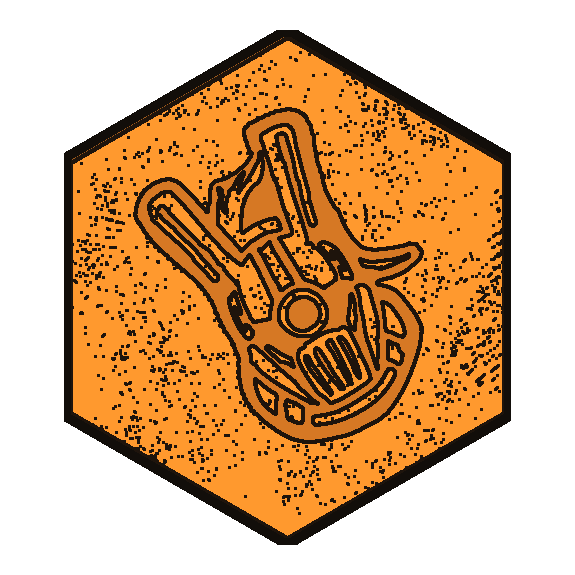
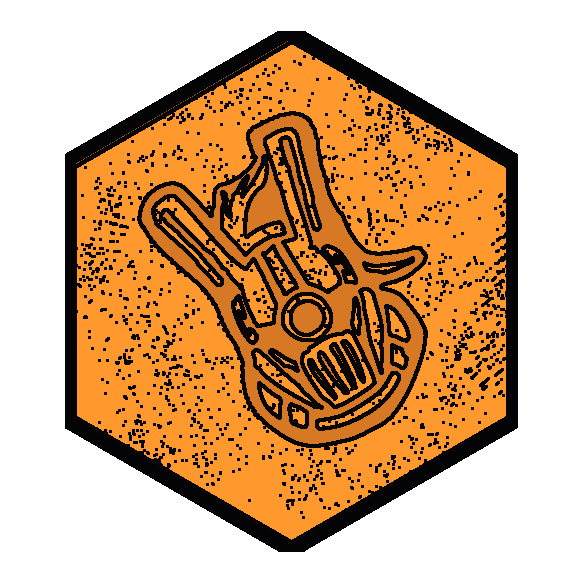
Apply zone-tint + badge treatment to thrones; darken emblem outlines
- Throne hexes (baseOrangeSpawn/baseBlueSpawn) now render as the base-coloured
  tile with the gear/star STL emblem as a centered badge, matching the minion
  spawns instead of a solid emblem tile.
- Re-rendered all emblems (minions + gear/star) from the STLs as transparent
  autocropped badges with a darker, thicker outline for stronger separation.
- Board and Map Editor both composite base tile + throne badge.

Claude-Session: https://claude.ai/code/session_01FGCwfszE2bRB1cHZJJWfUt

Changed region(s): [[0.1183, 0.0591, 0.887, 0.9461], [0.7687, 0.3843, 0.7983, 0.4139], [0.5617, 0.1774, 0.5913, 0.207]]

diff --git a/src/routes/play/+page.svelte b/src/routes/play/+page.svelte
@@ -32,6 +32,8 @@
 		return tileSprites[`../../lib/images/tiles/${t}.png`]
 	}
 	const isSpawn = (t?: HexType) => t === 'spawnOrange' || t === 'spawnBlue'
+	const isThrone = (t?: HexType) => t === 'baseOrangeSpawn' || t === 'baseBlueSpawn'
+	const baseTileFor = (t: HexType) => (t === 'baseOrangeSpawn' ? 'baseOrange' : 'baseBlue')
 
 	// A minion-spawn hex takes on the colour of the terrain zone it sits in
 	// (inferred from its neighbours); the team emblem is drawn as a badge on top.
@@ -211,12 +213,12 @@
 			{#each grid as h (h.id)}
 				{#if cells[h.id]}
 					{#if tileMode}
-						{#if isSpawn(cells[h.id])}
-							<image href={zoneTile(zones[h.id] ?? 'middle')} x={h.cx - SQRT3 * size * 0.53} y={h.cy - size * 1.06}
+						{#if isSpawn(cells[h.id]) || isThrone(cells[h.id])}
+							<image href={zoneTile(isSpawn(cells[h.id]) ? (zones[h.id] ?? 'middle') : baseTileFor(cells[h.id]))} x={h.cx - SQRT3 * size * 0.53} y={h.cy - size * 1.06}
 								width={SQRT3 * size * 1.06} height={size * 2 * 1.06} preserveAspectRatio="none" style="pointer-events:none" />
 							<image href={spriteFor(h.id, cells[h.id])} x={h.cx - SQRT3 * size * 1.06 * 0.36} y={h.cy - SQRT3 * size * 1.06 * 0.36}
 								width={SQRT3 * size * 1.06 * 0.72} height={SQRT3 * size * 1.06 * 0.72} preserveAspectRatio="xMidYMid meet" style="pointer-events:none"
-								transform={meta[h.id]?.dir ? `rotate(${meta[h.id].dir * 60} ${h.cx} ${h.cy})` : undefined} />
+								transform={isSpawn(cells[h.id]) && meta[h.id]?.dir ? `rotate(${meta[h.id].dir * 60} ${h.cx} ${h.cy})` : undefined} />
 						{:else}
 							<image href={spriteFor(h.id, cells[h.id])} x={h.cx - SQRT3 * size * 0.53} y={h.cy - size * 1.06}
 								width={SQRT3 * size * 1.06} height={size * 2 * 1.06} preserveAspectRatio="none" style="pointer-events:none" />

diff --git a/src/routes/board/+page.svelte b/src/routes/board/+page.svelte
@@ -17,6 +17,8 @@
 		return tileSprites[`../../lib/images/tiles/${t}.png`]
 	}
 	const isSpawn = (t: string) => t === 'spawnOrange' || t === 'spawnBlue'
+	const isThrone = (t: string) => t === 'baseOrangeSpawn' || t === 'baseBlueSpawn'
+	const baseTileFor = (t: string) => (t === 'baseOrangeSpawn' ? 'baseOrange' : 'baseBlue')
 
 	// Minion-spawn hexes borrow the colour of the terrain zone around them; the
 	// team emblem is drawn as a centred badge over that zone tile.
@@ -88,12 +90,12 @@
 		<div class="viewport" style="transform: translate({panX}px,{panY}px) scale({scale});">
 			<svg viewBox={vb} preserveAspectRatio="xMidYMid meet">
 				{#each hexes as h (h.id)}
-					{#if isSpawn(h.t)}
-						<image href={zoneTile(zoneOf(h.id))} x={h.x - SQRT3 * size * 0.53} y={h.y - size * 1.06}
+					{#if isSpawn(h.t) || isThrone(h.t)}
+						<image href={zoneTile(isSpawn(h.t) ? zoneOf(h.id) : baseTileFor(h.t))} x={h.x - SQRT3 * size * 0.53} y={h.y - size * 1.06}
 							width={SQRT3 * size * 1.06} height={size * 2 * 1.06} preserveAspectRatio="none" />
 						<image href={spriteFor(h.id, h.t)} x={h.x - SQRT3 * size * 1.06 * 0.36} y={h.y - SQRT3 * size * 1.06 * 0.36}
 							width={SQRT3 * size * 1.06 * 0.72} height={SQRT3 * size * 1.06 * 0.72} preserveAspectRatio="xMidYMid meet"
-							transform={meta[h.id]?.dir ? `rotate(${meta[h.id].dir * 60} ${h.x} ${h.y})` : undefined} />
+							transform={isSpawn(h.t) && meta[h.id]?.dir ? `rotate(${meta[h.id].dir * 60} ${h.x} ${h.y})` : undefined} />
 					{:else}
 						<image href={spriteFor(h.id, h.t)} x={h.x - SQRT3 * size * 0.53} y={h.y - size * 1.06}
 							width={SQRT3 * size * 1.06} height={size * 2 * 1.06} preserveAspectRatio="none" />
